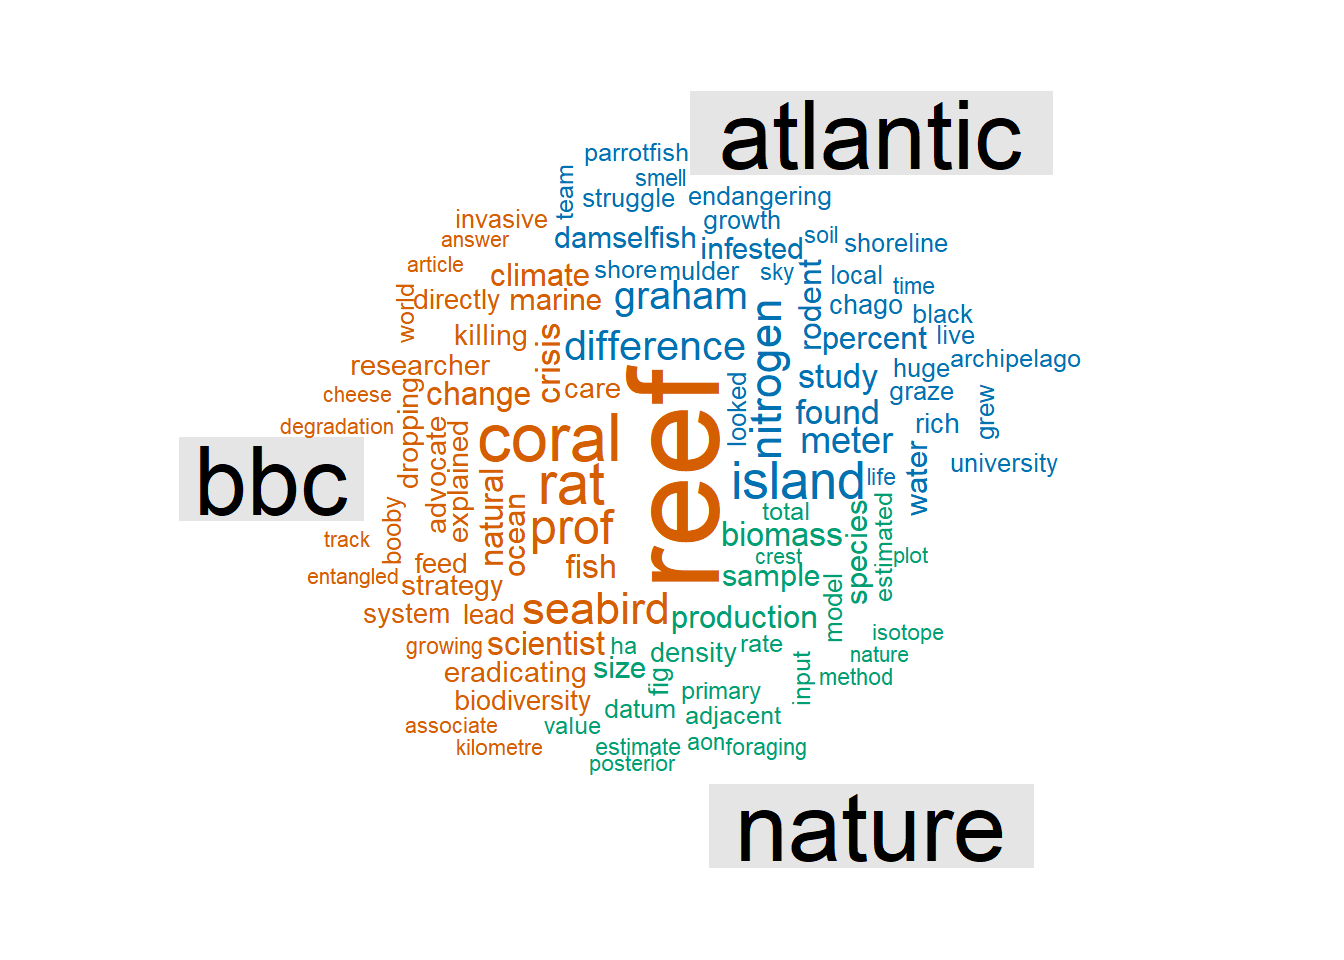
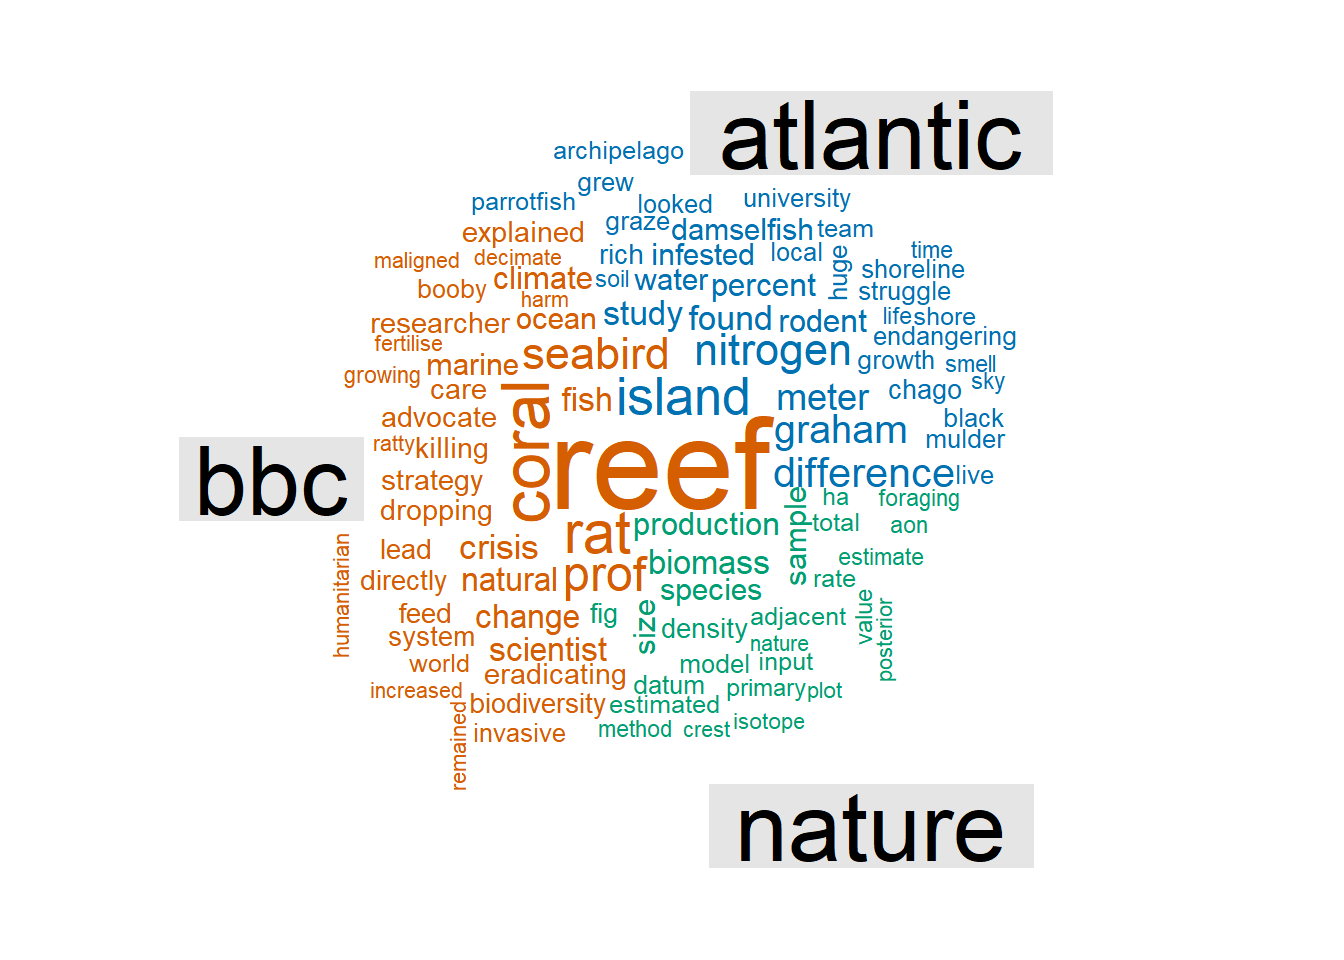
rebuild site to update

Changed region(s): [[0.2188, 0.125, 0.8125, 0.8125]]

diff --git a/content/post/2018-07-12-rats-to-reefs.html b/content/post/2018-07-12-rats-to-reefs.html
@@ -12,7 +12,7 @@ draft: false
 
 
 
-<p>This week, I came across two news articles about a <a href="https://www.nature.com/articles/s41586-018-0202-3">study in Nature</a> that linked invasive rats on islands to coral reefs. I was intrigued by how the different authors (in this case, <a href="https://twitter.com/edyong209">Ed Yong</a> from the Atlantic and <a href="https://twitter.com/Vic_Gill">Victoria Gill</a> from the BBC) reported on the study, and took it as a sign that I have should some fun with <a href="https://www.tidytextmining.com/">text analysis</a>.</p>
+<p>This week, I came across two news articles about a <a href="https://www.nature.com/articles/s41586-018-0202-3">study in Nature</a> led by <a href="https://twitter.com/naj_graham">Nick Graham</a> that linked invasive rats on islands to coral reefs. I was intrigued by how the different authors (in this case, <a href="https://twitter.com/edyong209">Ed Yong</a> from the Atlantic and <a href="https://twitter.com/Vic_Gill">Victoria Gill</a> from the BBC) reported on the study, and took it as a sign that I have should some fun with <a href="https://www.tidytextmining.com/">text analysis</a>.</p>
 <p>{{% tweet "1017092274482831360" %}}{{% tweet "1017211861387894791" %}}</p>
 <p>Thus began my journey down the rat-bird-coral hole…</p>
 <div id="tidy" class="section level2">
@@ -139,5 +139,5 @@ all_words %&gt;%
 <p>As I reread the two news articles again, I find that the difference in word use are highlighted in the authors’ disparate strategies in telling the story.</p>
 <p><a href="https://twitter.com/Vic_Gill">Victoria Gill</a> from the BBC is succinct and to the point. Each paragraph contains no more than two sentences, and she lays out the story in two sections: “How do rats harm coral reefs?” and “Why does this matter?” The latter section is almost entirely about the importance of coral reefs generally, which explains the heavy use of <code>reef</code> that we saw above.</p>
 <p>In contrast, <a href="https://twitter.com/edyong209">Ed Yong</a> uses longer-form prose to highlight the historical and academic landscape of the study. He writes about humans inadvertently carrying rats to the islands in the late 18th and early 19th centuries, and describes the complex and abundant relationships among members of this ecosystem. Like Victoria Gill, Ed Yong ends on a conservation note: eradicating rats from islands is “low-hanging fruit” as far as management actions are concerned.</p>
-<p>Graham et al.’s study pulled together a lot of smaller studies into a cohesive and compelling story, but the best part of is definitely the <a href="https://github.com/mamacneil/ChagosRats">GitHub link</a> to the analyses and plots! Way to champion reproducible research!</p>
+<p>Graham et al.’s study pulled together a lot of smaller studies into a cohesive and compelling story, but the best part of is definitely <a href="https://twitter.com/ma_macneil">Aaron MacNeil’s</a> <a href="https://github.com/mamacneil/ChagosRats">GitHub link</a> to the analyses and plots! Way to champion reproducible research!</p>
 </div>
